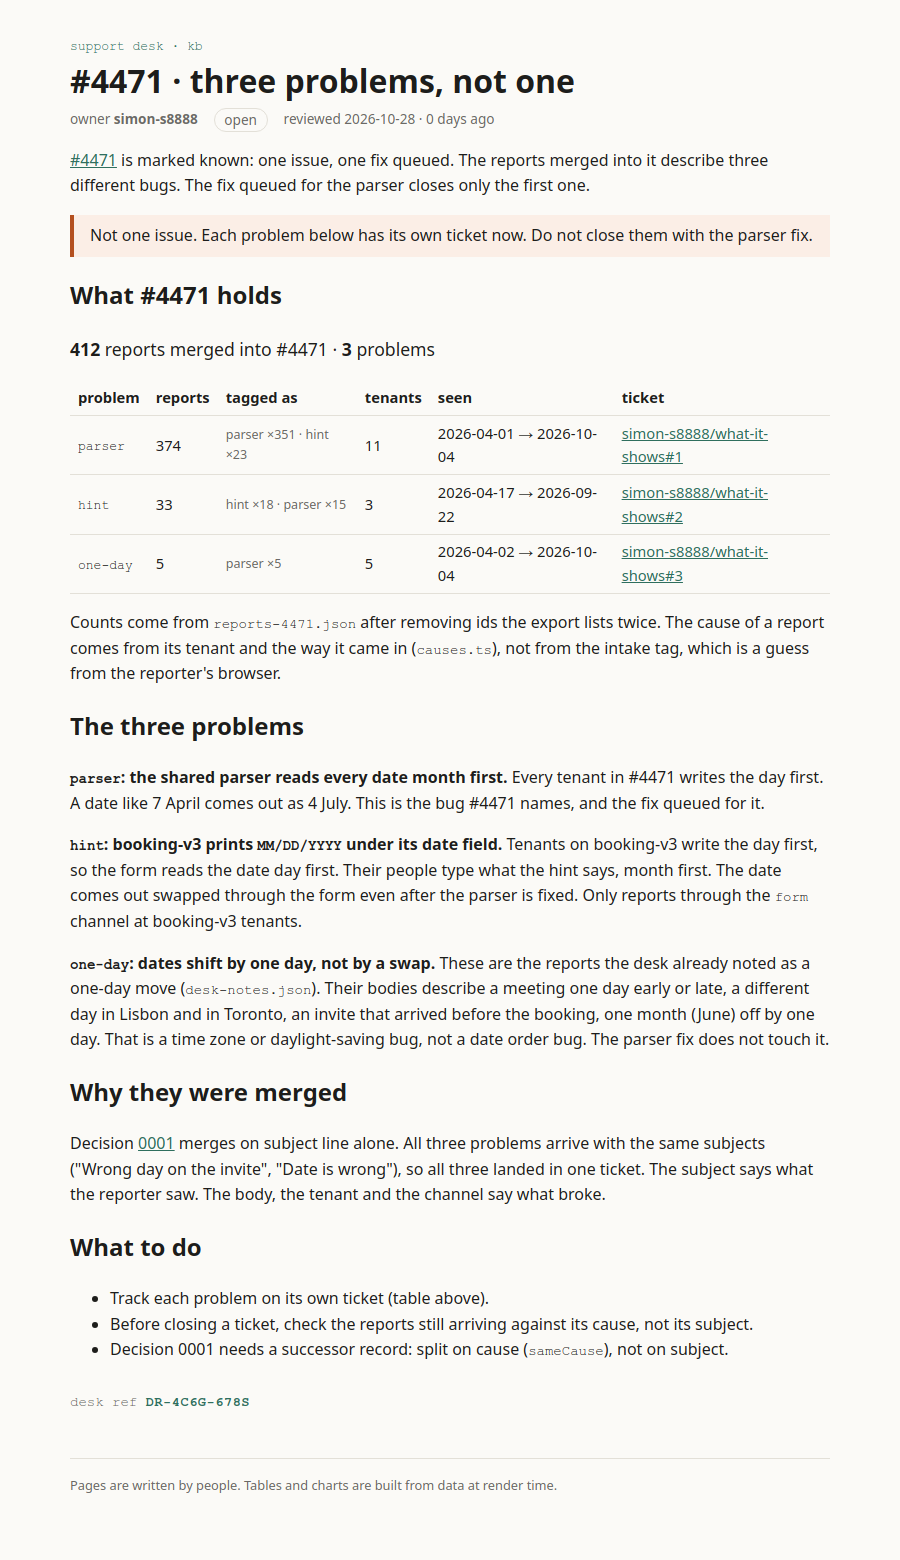
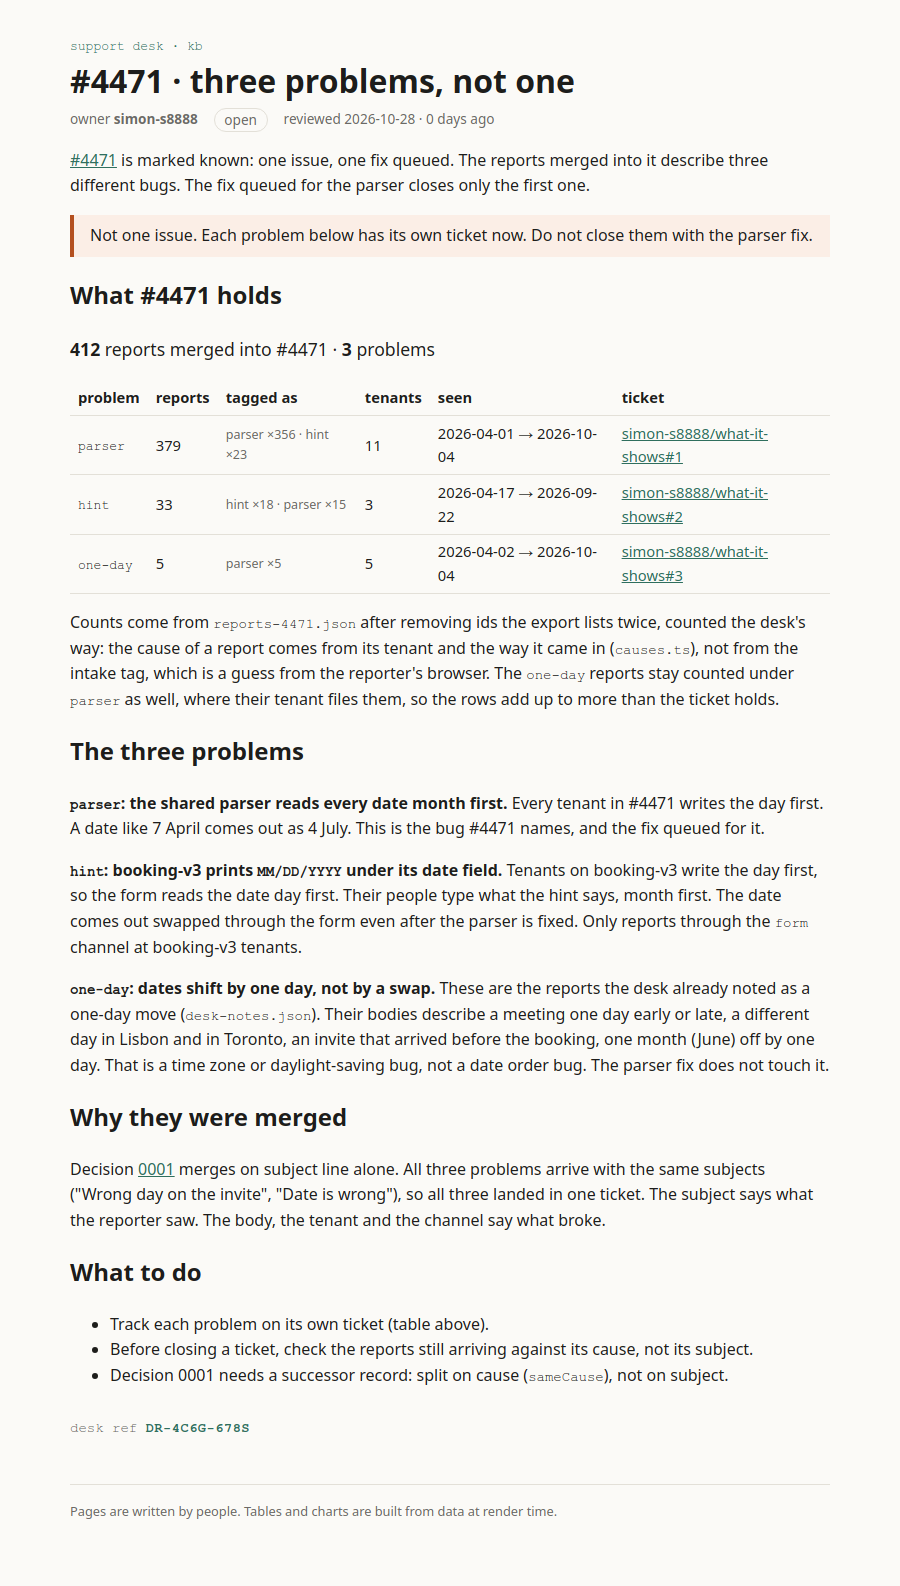
Count the page the desk's way: parser 379, as on the ticket

Changed region(s): [[0.0622, 0.1846, 0.9333, 0.9231], [0.0622, 0.0308, 0.9022, 0.1538], [0.5911, 0.2462, 0.6533, 0.2769]]

diff --git a/rendered/kb/incidents/4471-problems/index.html b/rendered/kb/incidents/4471-problems/index.html
@@ -28,11 +28,11 @@ footer { margin-top: 3rem; color: var(--muted); font-size: 0.8rem; border-top: 1
 <h2>What #4471 holds</h2>
 <p class="sum"><strong>412</strong> reports merged into #4471 · <strong>3</strong> problems</p>
 <table><thead><tr><th>problem</th><th>reports</th><th>tagged as</th><th>tenants</th><th>seen</th><th>ticket</th></tr></thead><tbody>
-<tr><td><code>parser</code></td><td>374</td><td class="tags">parser ×351 · hint ×23</td><td>11</td><td>2026-04-01 → 2026-10-04</td><td><a href="https://github.com/simon-s8888/what-it-shows/issues/1">simon-s8888/what-it-shows#1</a></td></tr>
+<tr><td><code>parser</code></td><td>379</td><td class="tags">parser ×356 · hint ×23</td><td>11</td><td>2026-04-01 → 2026-10-04</td><td><a href="https://github.com/simon-s8888/what-it-shows/issues/1">simon-s8888/what-it-shows#1</a></td></tr>
 <tr><td><code>hint</code></td><td>33</td><td class="tags">hint ×18 · parser ×15</td><td>3</td><td>2026-04-17 → 2026-09-22</td><td><a href="https://github.com/simon-s8888/what-it-shows/issues/2">simon-s8888/what-it-shows#2</a></td></tr>
 <tr><td><code>one-day</code></td><td>5</td><td class="tags">parser ×5</td><td>5</td><td>2026-04-02 → 2026-10-04</td><td><a href="https://github.com/simon-s8888/what-it-shows/issues/3">simon-s8888/what-it-shows#3</a></td></tr>
 </tbody></table>
-<p>Counts come from <code>reports-4471.json</code> after removing ids the export lists twice. The cause of a report comes from its tenant and the way it came in (<code>causes.ts</code>), not from the intake tag, which is a guess from the reporter's browser.</p>
+<p>Counts come from <code>reports-4471.json</code> after removing ids the export lists twice, counted the desk's way: the cause of a report comes from its tenant and the way it came in (<code>causes.ts</code>), not from the intake tag, which is a guess from the reporter's browser. The <code>one-day</code> reports stay counted under <code>parser</code> as well, where their tenant files them, so the rows add up to more than the ticket holds.</p>
 <h2>The three problems</h2>
 <p><strong><code>parser</code>: the shared parser reads every date month first.</strong> Every tenant in #4471 writes the day first. A date like 7 April comes out as 4 July. This is the bug #4471 names, and the fix queued for it.</p>
 <p><strong><code>hint</code>: booking-v3 prints <code>MM/DD/YYYY</code> under its date field.</strong> Tenants on booking-v3 write the day first, so the form reads the date day first. Their people type what the hint says, month first. The date comes out swapped through the form even after the parser is fixed. Only reports through the <code>form</code> channel at booking-v3 tenants.</p>

diff --git a/src/routes/kb/incidents/4471-problems/page.html b/src/routes/kb/incidents/4471-problems/page.html
@@ -28,11 +28,11 @@ footer { margin-top: 3rem; color: var(--muted); font-size: 0.8rem; border-top: 1
 <h2>What #4471 holds</h2>
 <p class="sum"><strong>412</strong> reports merged into #4471 · <strong>3</strong> problems</p>
 <table><thead><tr><th>problem</th><th>reports</th><th>tagged as</th><th>tenants</th><th>seen</th><th>ticket</th></tr></thead><tbody>
-<tr><td><code>parser</code></td><td>374</td><td class="tags">parser ×351 · hint ×23</td><td>11</td><td>2026-04-01 → 2026-10-04</td><td><a href="https://github.com/simon-s8888/what-it-shows/issues/1">simon-s8888/what-it-shows#1</a></td></tr>
+<tr><td><code>parser</code></td><td>379</td><td class="tags">parser ×356 · hint ×23</td><td>11</td><td>2026-04-01 → 2026-10-04</td><td><a href="https://github.com/simon-s8888/what-it-shows/issues/1">simon-s8888/what-it-shows#1</a></td></tr>
 <tr><td><code>hint</code></td><td>33</td><td class="tags">hint ×18 · parser ×15</td><td>3</td><td>2026-04-17 → 2026-09-22</td><td><a href="https://github.com/simon-s8888/what-it-shows/issues/2">simon-s8888/what-it-shows#2</a></td></tr>
 <tr><td><code>one-day</code></td><td>5</td><td class="tags">parser ×5</td><td>5</td><td>2026-04-02 → 2026-10-04</td><td><a href="https://github.com/simon-s8888/what-it-shows/issues/3">simon-s8888/what-it-shows#3</a></td></tr>
 </tbody></table>
-<p>Counts come from <code>reports-4471.json</code> after removing ids the export lists twice. The cause of a report comes from its tenant and the way it came in (<code>causes.ts</code>), not from the intake tag, which is a guess from the reporter's browser.</p>
+<p>Counts come from <code>reports-4471.json</code> after removing ids the export lists twice, counted the desk's way: the cause of a report comes from its tenant and the way it came in (<code>causes.ts</code>), not from the intake tag, which is a guess from the reporter's browser. The <code>one-day</code> reports stay counted under <code>parser</code> as well, where their tenant files them, so the rows add up to more than the ticket holds.</p>
 <h2>The three problems</h2>
 <p><strong><code>parser</code>: the shared parser reads every date month first.</strong> Every tenant in #4471 writes the day first. A date like 7 April comes out as 4 July. This is the bug #4471 names, and the fix queued for it.</p>
 <p><strong><code>hint</code>: booking-v3 prints <code>MM/DD/YYYY</code> under its date field.</strong> Tenants on booking-v3 write the day first, so the form reads the date day first. Their people type what the hint says, month first. The date comes out swapped through the form even after the parser is fixed. Only reports through the <code>form</code> channel at booking-v3 tenants.</p>

diff --git a/src/lib/kb/ProblemTable.svelte b/src/lib/kb/ProblemTable.svelte
@@ -4,9 +4,10 @@
   import { groupByCause, uniqueById, type Report } from '#lib/kb/causes';
   import { tenantOf } from '#lib/kb/locales';
 
-  // One row per problem in a merged ticket. Same grouping as CauseTable, except the reports the desk
-  // read as a one-day move (desk-notes.json) get their own row: their bodies describe a date shifted
-  // by one day, not a day and month swapped, so they are a different bug, not a footnote.
+  // One row per problem in a merged ticket, counted the desk's way: the same groups as CauseTable, by
+  // tenant. The reports the desk read as a one-day move (desk-notes.json) also get a row of their own:
+  // their bodies describe a date shifted by one day, not a day and month swapped, so they are a
+  // different bug. They stay counted under the cause their tenant gives them too.
   let { ticket, issues = {} }: { ticket: number; issues?: Record<string, string> } = $props();
 
   type Row = { problem: string; reports: Report[] };
@@ -14,7 +15,7 @@
   const merged = $derived(uniqueById(reports as Report[]).filter((r) => r.mergedInto === ticket));
   const rows = $derived.by((): Row[] => {
     const moved = (r: Report) => notes.oneDayMove.includes(r.id);
-    const byCause = groupByCause(merged.filter((r) => !moved(r)), tenantOf).map((g) => ({
+    const byCause = groupByCause(merged, tenantOf).map((g) => ({
       problem: g.cause as string,
       reports: g.reports,
     }));
